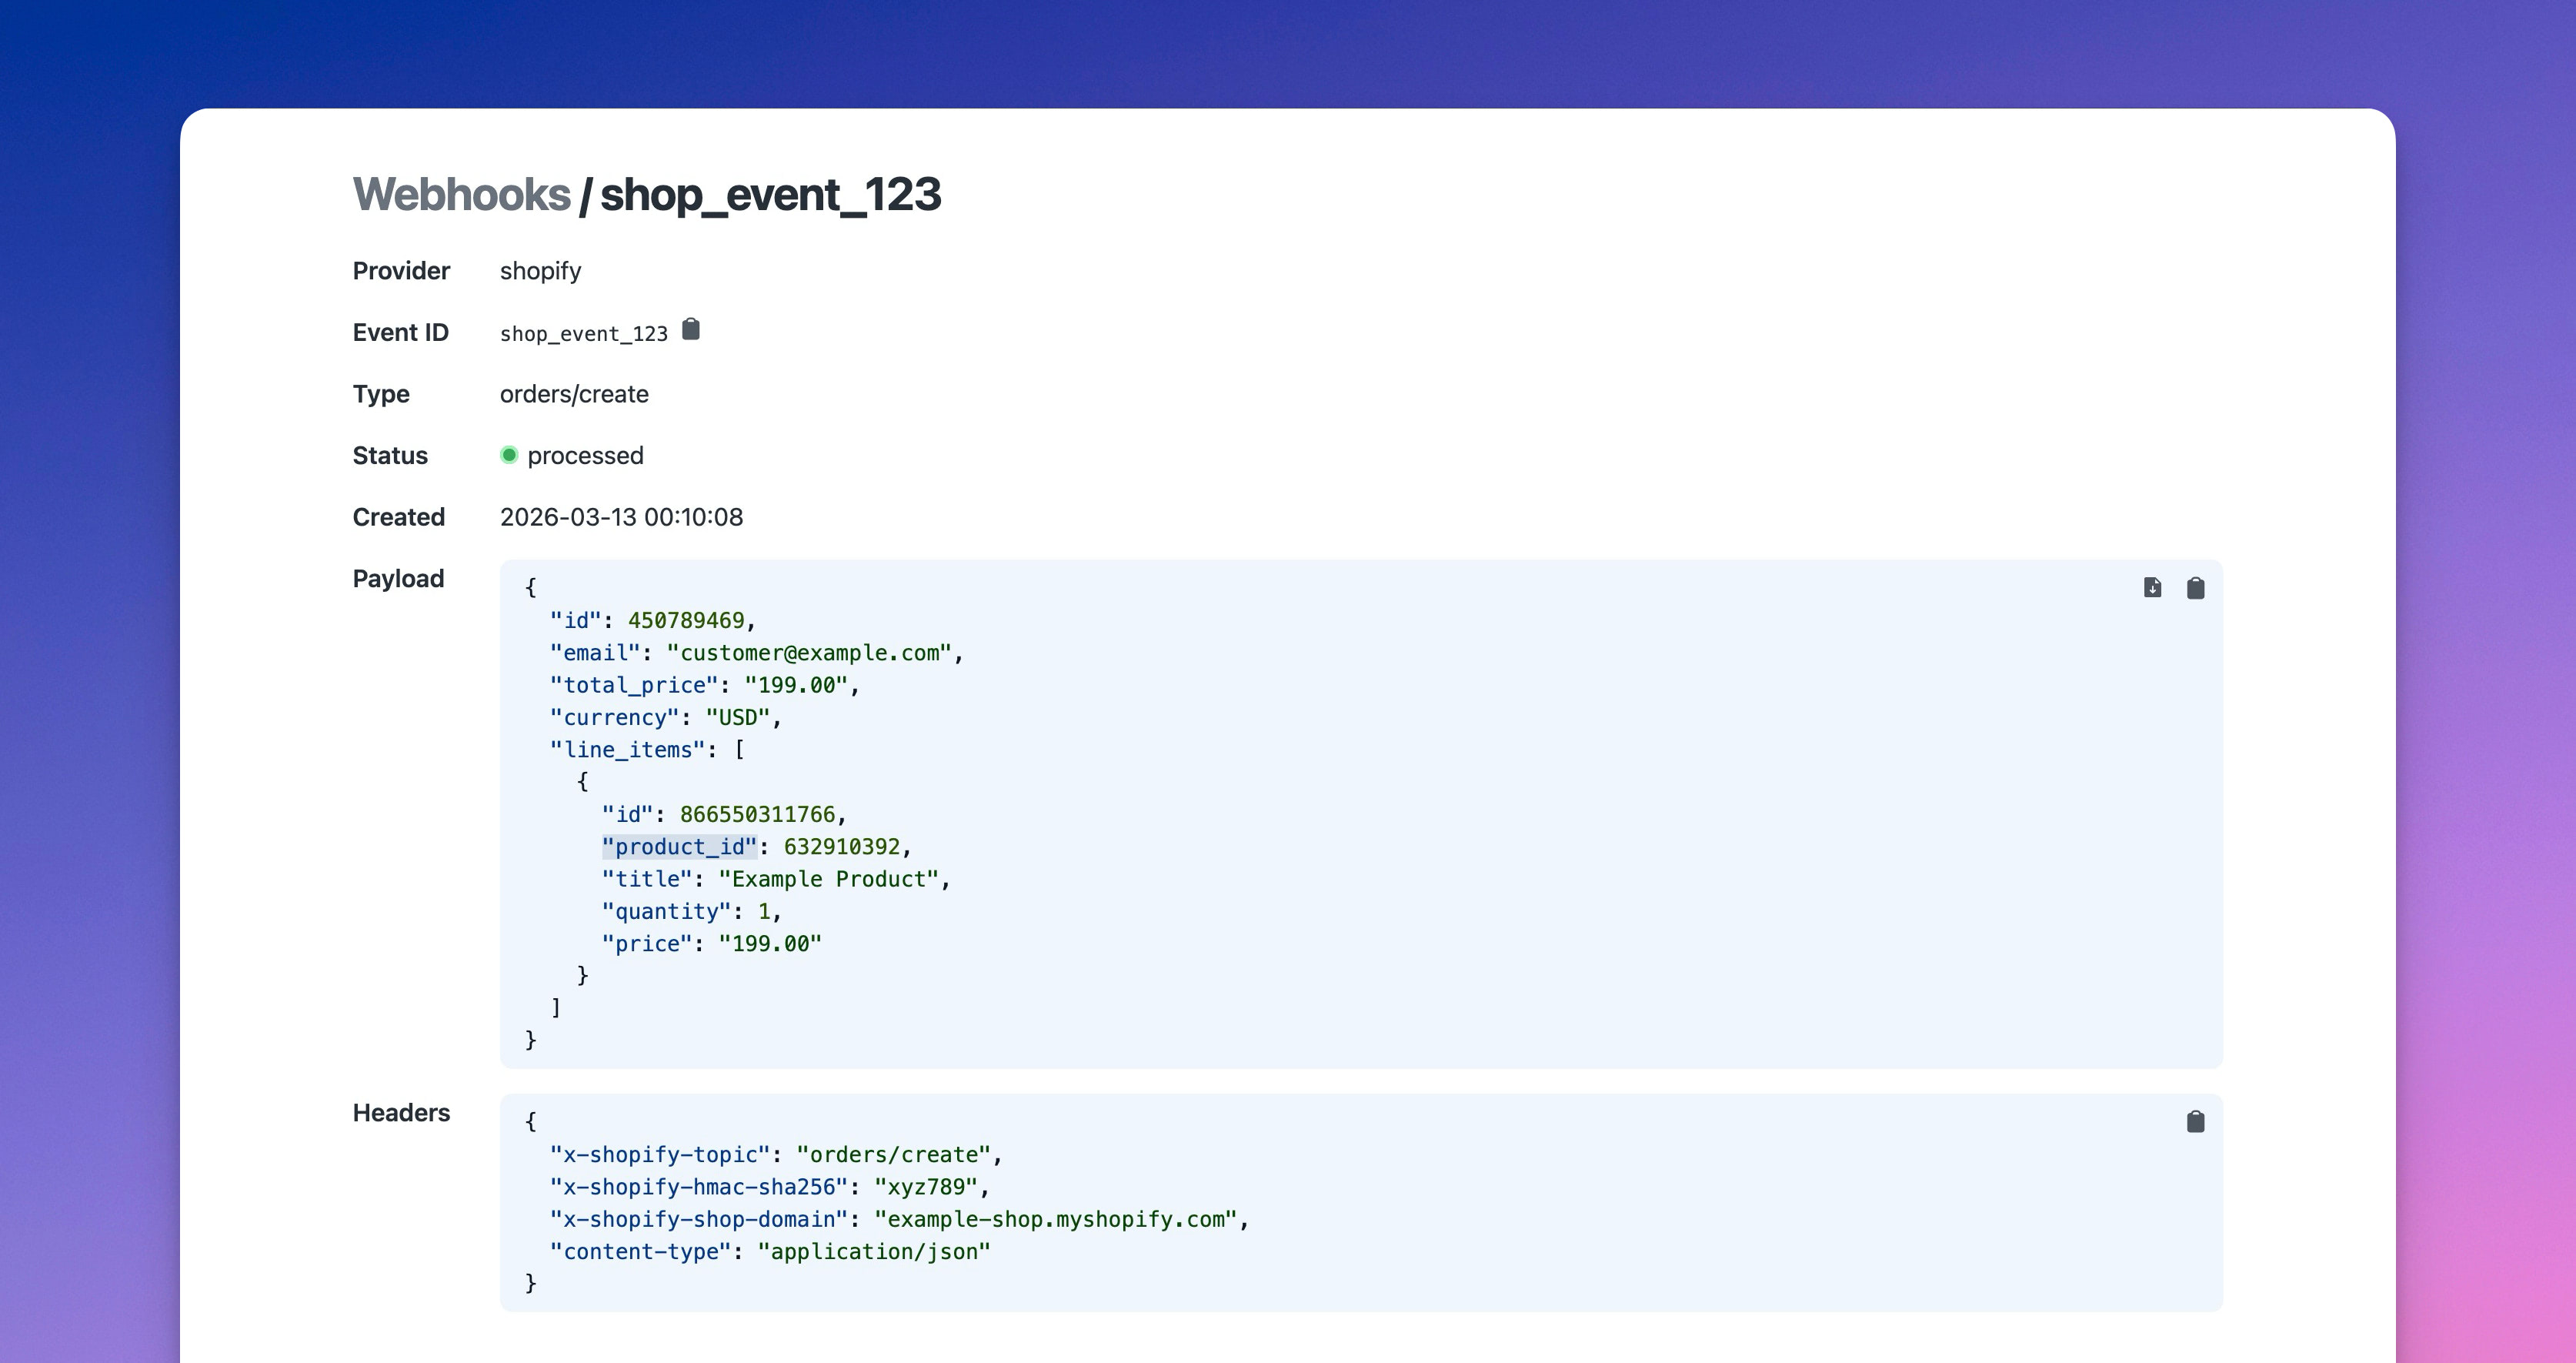
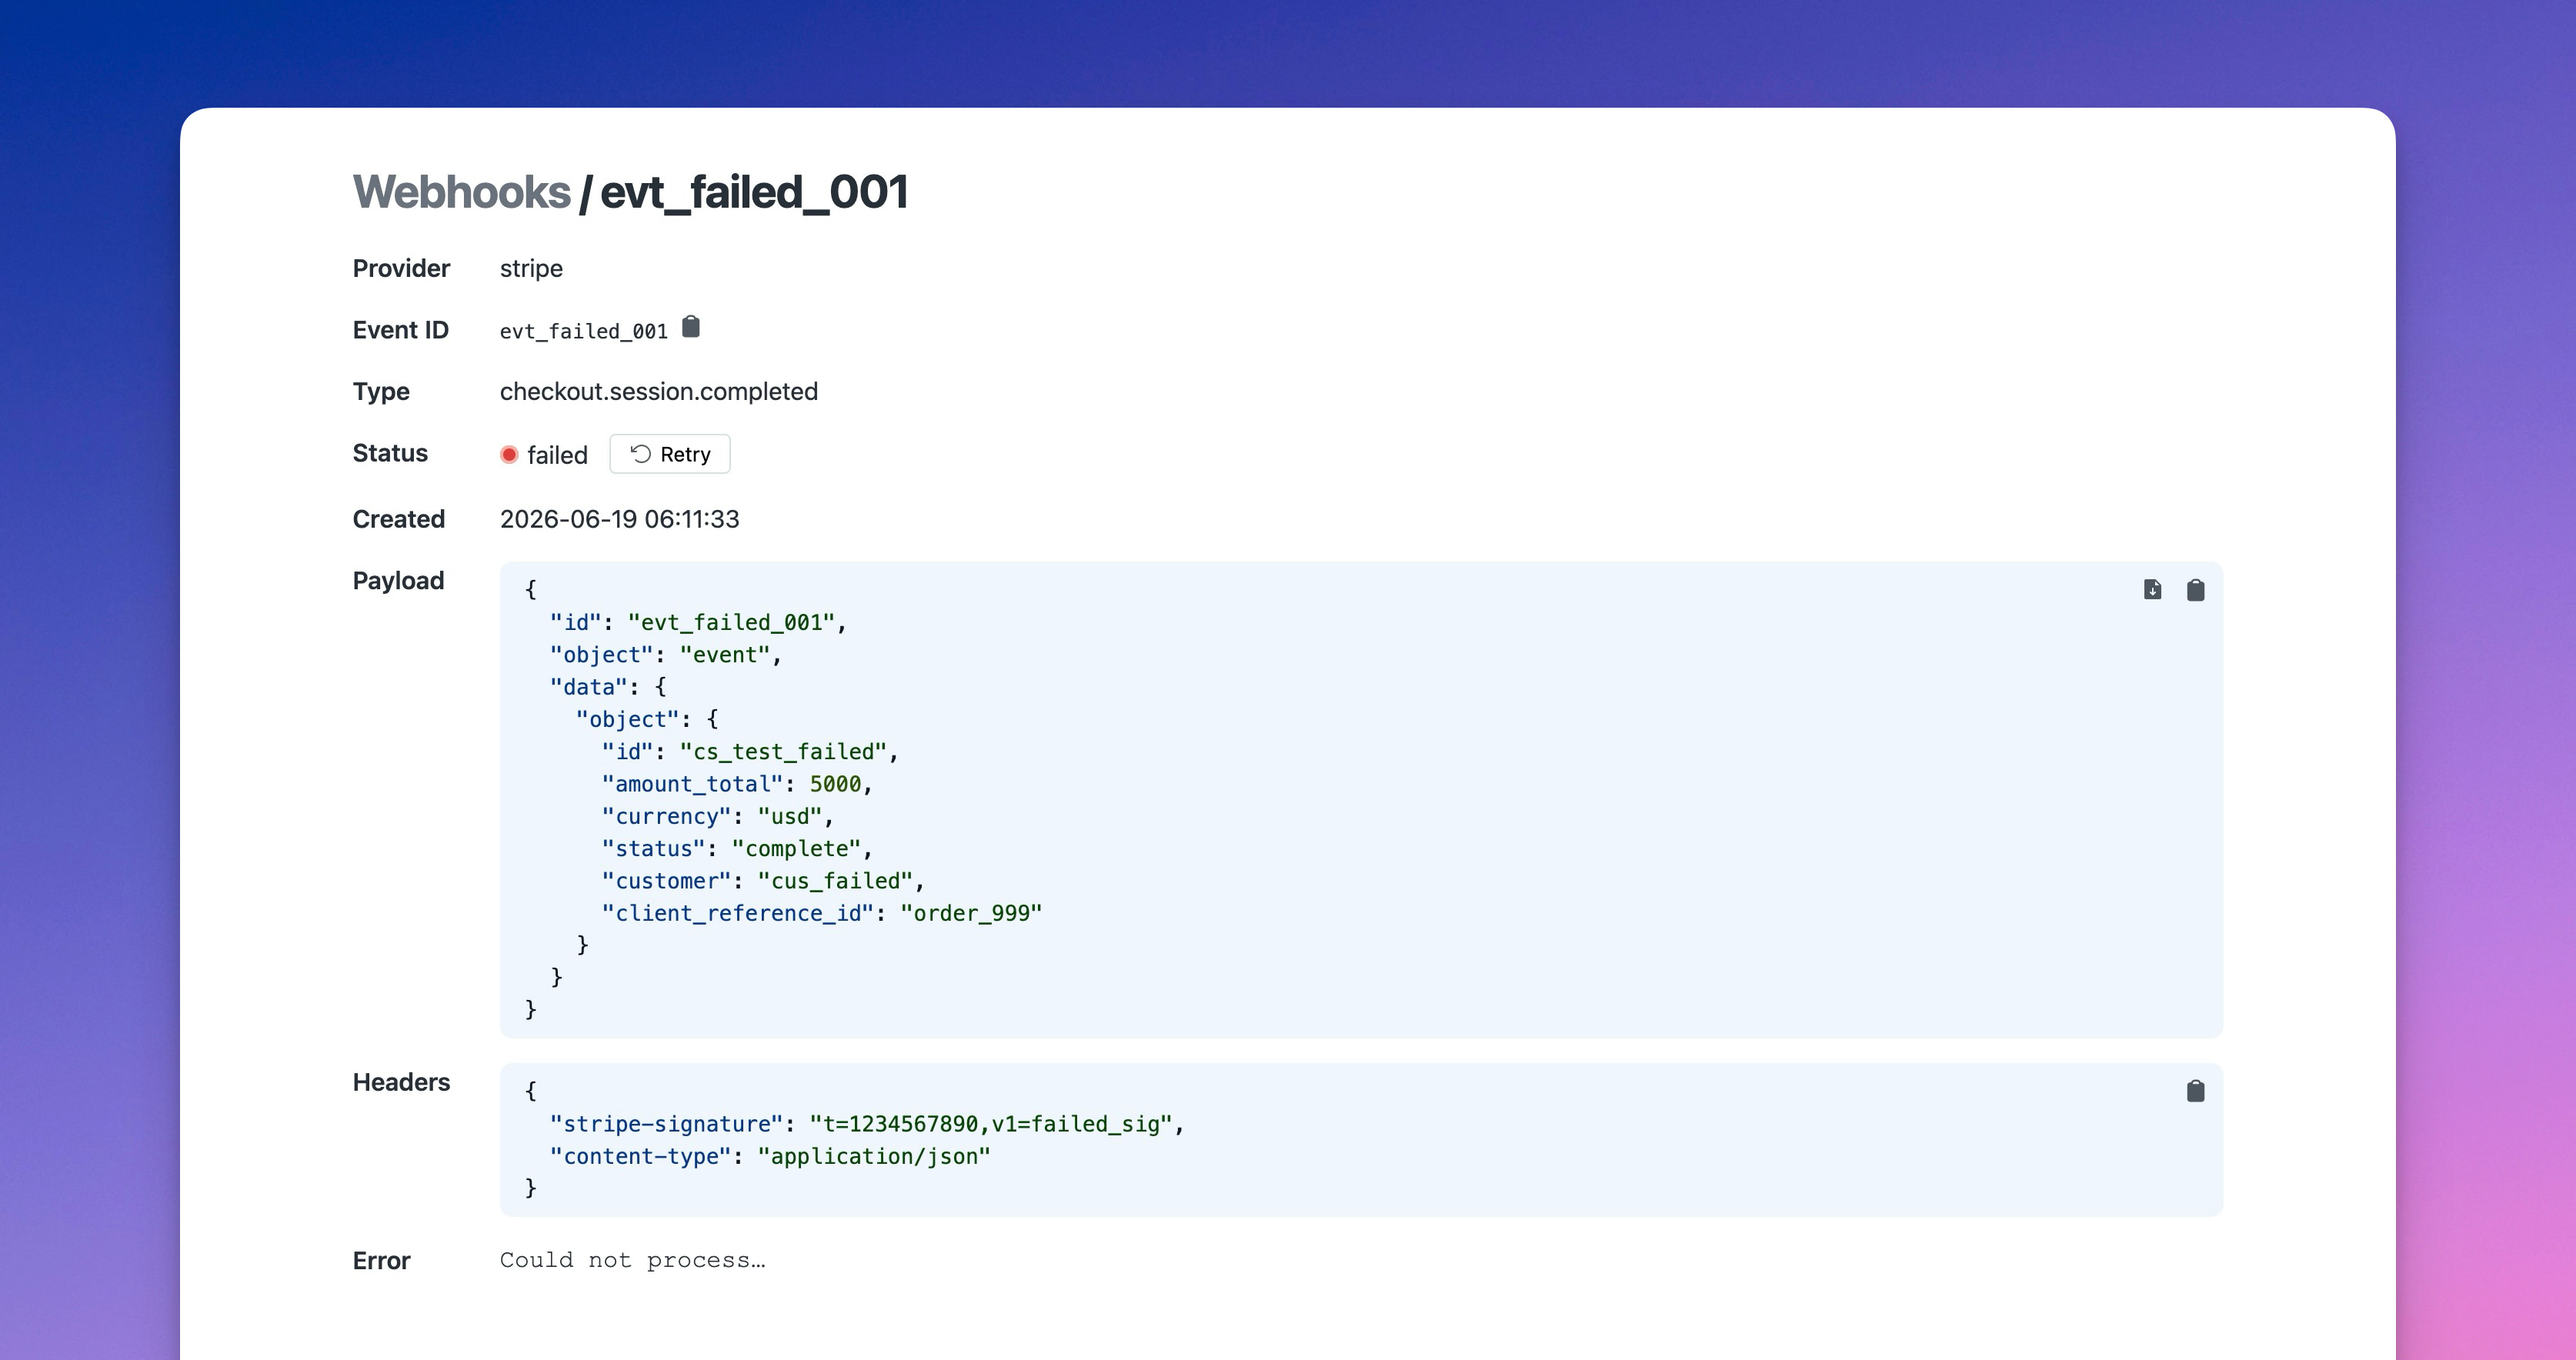
Added retry option (#39)
* Added retry option

* Updated detail preview image

Pull request: Added retry option
Closes https://github.com/Rails-Designer/fuik/issues/3

<img width="2880" height="1800" alt="retry-button" src="https://github.com/user-attachments/assets/ab92e630-633f-4e4f-89d9-96fc0eb6e06b" />

- [x] Update README with new screenshot

diff --git a/app/assets/stylesheets/fuik/application.css b/app/assets/stylesheets/fuik/application.css
@@ -233,8 +233,17 @@
     &:hover {
       color: oklch(from var(--color-text) l c h);
       transition: transform ease-in-out 300ms;
-      transform: scale(1.10);
+      transform: scale(1.05);
     }
+  }
+
+  .retry-button {
+    display: inline-flex;
+    align-items: center;
+    gap: .25rem;
+    margin-inline-start: .5rem;
+    padding: .25rem .75rem;
+    border: 1px solid var(--color-border);
   }
 
   .json-highlight {
@@ -256,5 +265,9 @@
     .json-boolean { color: oklch(45% .18 260); }
     .json-null { color: oklch(50% .05 250); }
     .json-punctuation { color: oklch(20% .03 250); }
+  }
+
+  .errors {
+    font-family: "Courier New", Courier, monospace;
   }
 }

diff --git a/test/models/fuik/webhook_event_test.rb b/test/models/fuik/webhook_event_test.rb
@@ -1,0 +1,48 @@
+require "test_helper"
+
+module Fuik
+  class WebhookEventTest < ActiveSupport::TestCase
+    test "retry! resets and reprocesses a failed event" do
+      event = WebhookEvent.create!(
+        provider: "stripe",
+        event_id: "evt_retry_1",
+        event_type: "checkout.session.completed",
+        body: {}.to_json,
+        headers: {},
+        status: "failed",
+        error: "Something went wrong"
+      )
+
+      event.retry!
+
+      assert_equal "processed", event.reload.status
+      assert_nil event.reload.error
+    end
+
+    test "retry! raises for processed events" do
+      event = WebhookEvent.create!(
+        provider: "stripe",
+        event_id: "evt_retry_2",
+        event_type: "checkout.session.completed",
+        body: {}.to_json,
+        headers: {},
+        status: "processed"
+      )
+
+      assert_raises(RuntimeError, match: /failed/) { event.retry! }
+    end
+
+    test "retry! raises for pending events" do
+      event = WebhookEvent.create!(
+        provider: "stripe",
+        event_id: "evt_retry_3",
+        event_type: "checkout.session.completed",
+        body: {}.to_json,
+        headers: {},
+        status: "pending"
+      )
+
+      assert_raises(RuntimeError, match: /failed/) { event.retry! }
+    end
+  end
+end

diff --git a/test/controllers/fuik/retries_controller_test.rb b/test/controllers/fuik/retries_controller_test.rb
@@ -1,0 +1,29 @@
+require "test_helper"
+
+module Fuik
+  class RetriesControllerTest < ActionDispatch::IntegrationTest
+    test "retries a failed event" do
+      event = WebhookEvent.create!(
+        provider: "stripe",
+        event_id: "evt_retry",
+        event_type: "checkout.session.completed",
+        body: {}.to_json,
+        headers: {},
+        status: "failed",
+        error: "Boom"
+      )
+
+      post "/webhooks/events/#{event.id}/retries"
+
+      assert_redirected_to "/webhooks/events/#{event.id}"
+      assert_equal "processed", event.reload.status
+      assert_nil event.reload.error
+    end
+
+    test "returns 404 for non-existent event" do
+      post "/webhooks/events/99999/retries"
+
+      assert_response :not_found
+    end
+  end
+end

diff --git a/app/models/fuik/webhook_event.rb b/app/models/fuik/webhook_event.rb
@@ -4,6 +4,10 @@ module Fuik
   class WebhookEvent < ApplicationRecord
     self.table_name = "fuik_webhook_events"
 
+    def self.event_class_for(provider, event_type)
+      "#{provider.camelize}::#{event_type.tr("./:-[]", "_").camelize}".safe_constantize
+    end
+
     include Filterable
 
     enum :status, %w[pending processed failed].index_by(&:itself), default: "pending"
@@ -21,8 +25,21 @@ module Fuik
       update!(status: "processed")
     end
 
-    def failed!(error)
+    def failed!(error = nil)
       update!(status: "failed", error: error.to_s)
+    end
+
+    def retry!
+      raise "Can only retry failed events" unless failed?
+
+      update!(status: "pending", error: nil)
+      process_later!
+    end
+
+    def process_later!
+      event_class = self.class.event_class_for(provider, event_type)
+
+      WebhookProcessingJob.perform_later(event_class.name, self) if event_class
     end
   end
 end

diff --git a/app/controllers/fuik/webhooks_controller.rb b/app/controllers/fuik/webhooks_controller.rb
@@ -17,7 +17,7 @@ module Fuik
         headers: headers
       )
 
-      process_later!(webhook_event)
+      webhook_event.process_later!
 
       head :ok
     rescue Fuik::InvalidSignature
@@ -60,25 +60,14 @@ module Fuik
     end
 
     def process!(webhook_event)
-      event_class = event_class_for(webhook_event.provider, webhook_event.event_type)
+      event_class = WebhookEvent.event_class_for(webhook_event.provider, webhook_event.event_type)
       return unless event_class
 
       event_class.new(webhook_event).process!
     end
 
-    def process_later!(webhook_event)
-      event_class = event_class_for(webhook_event.provider, webhook_event.event_type)
-      return unless event_class
-
-      WebhookProcessingJob.perform_later(event_class.name, webhook_event)
-    end
-
     def url_encoded_body?
       request.media_type == "application/x-www-form-urlencoded"
-    end
-
-    def event_class_for(provider, event_type)
-      "#{provider.camelize}::#{event_type.tr("./:-[]", "_").camelize}".safe_constantize
     end
 
     def should_verify? = base_class&.respond_to?(:verify!)

diff --git a/app/controllers/fuik/retries_controller.rb b/app/controllers/fuik/retries_controller.rb
@@ -1,0 +1,12 @@
+# frozen_string_literal: true
+
+module Fuik
+  class RetriesController < Fuik::Engine.config.events_controller_parent.constantize
+    def create
+      webhook_event = WebhookEvent.find(params[:event_id])
+      webhook_event.retry!
+
+      redirect_to event_path(webhook_event)
+    end
+  end
+end

diff --git a/config/routes.rb b/config/routes.rb
@@ -2,7 +2,9 @@
 
 Fuik::Engine.routes.draw do
   root to: "events#index"
-  resources :events, only: %w[show]
+  resources :events, only: %w[show] do
+    resources :retries, only: %w[create]
+  end
   resources :downloads, only: %w[create]
 
   post ":provider", to: "webhooks#create", constraints: Fuik::Routing::ProviderConstraint.new